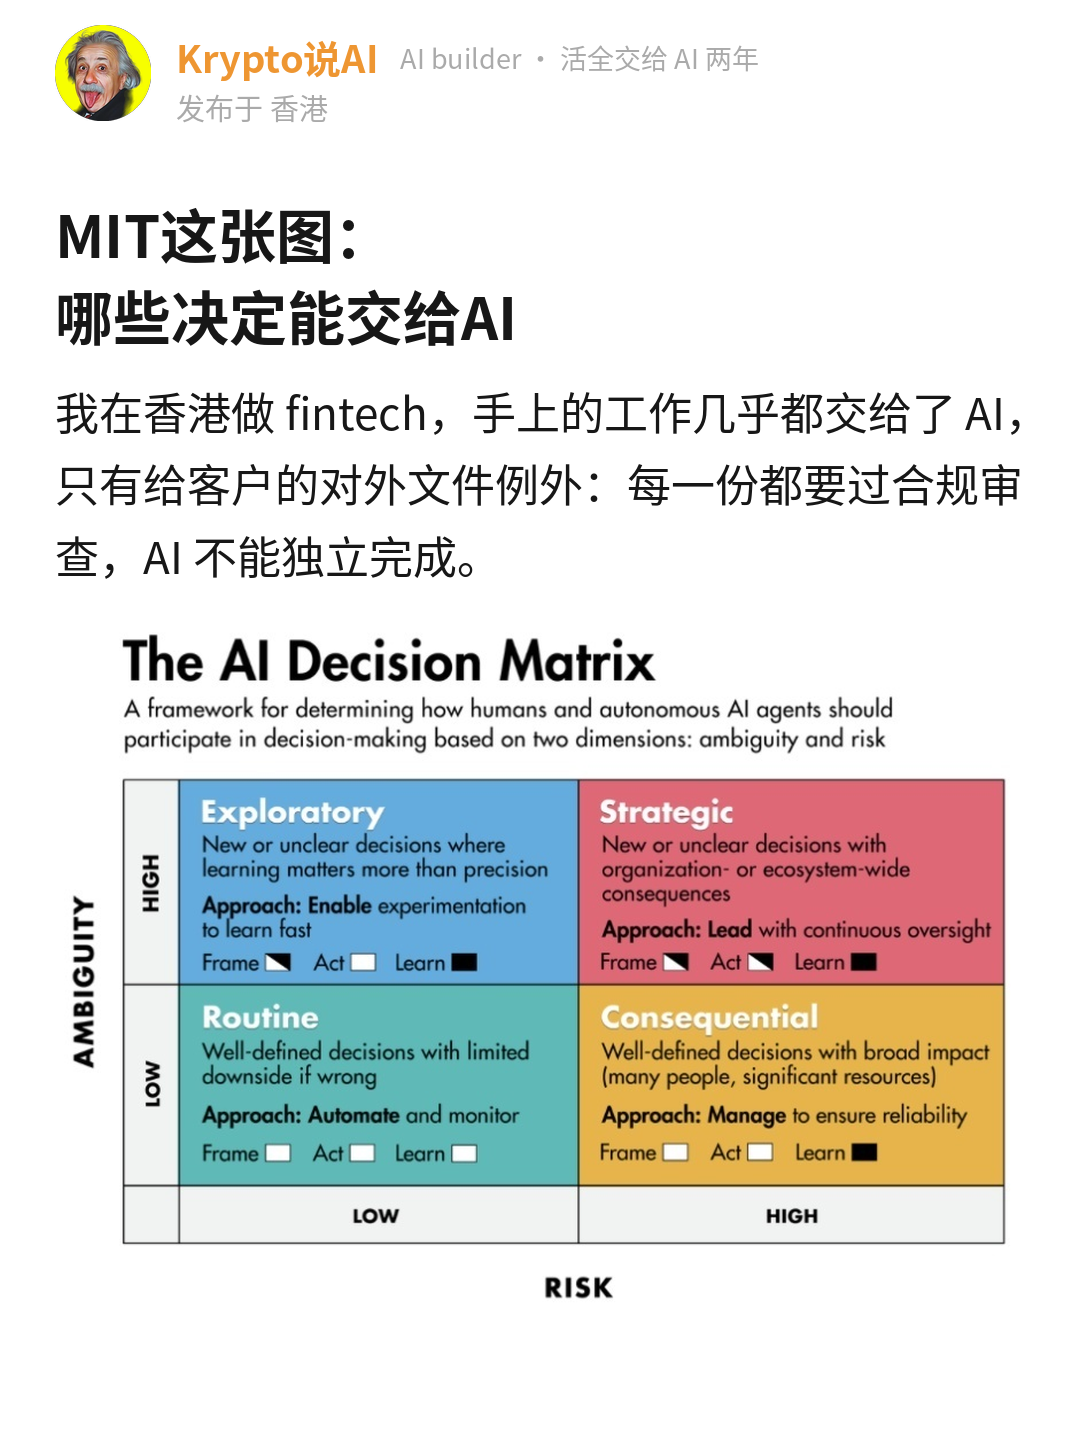
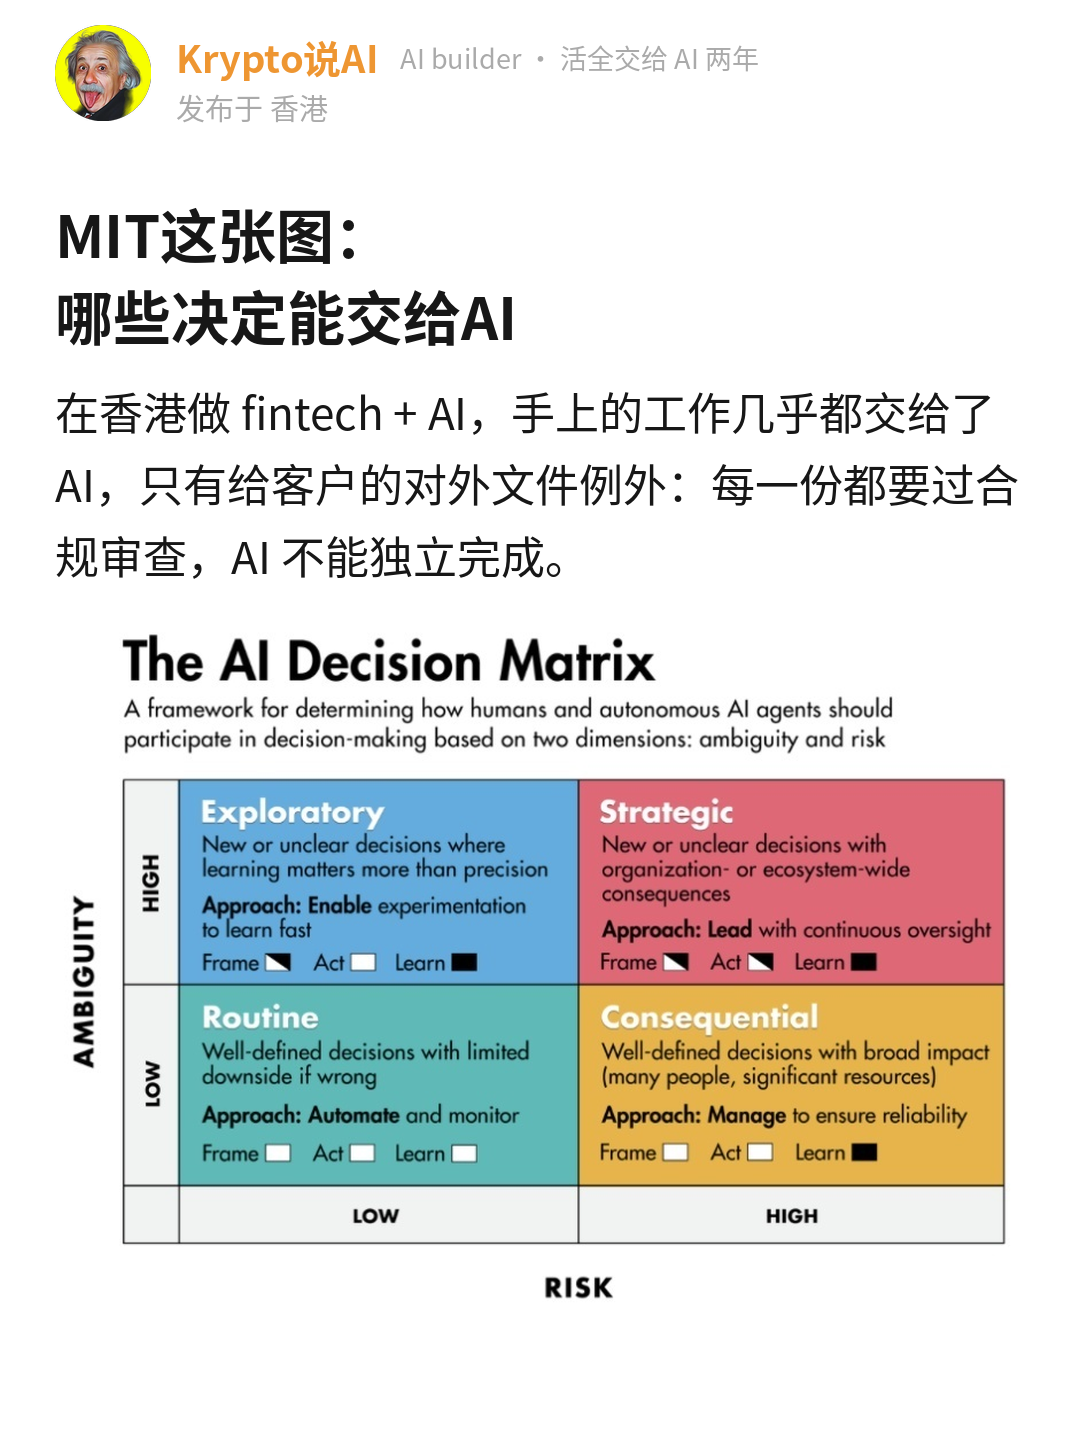
MIT 决策矩阵稿：首句去掉「我」，改成在香港做 fintech + AI
Claude-Session: https://claude.ai/code/session_01NaeRTaA3vEPhs6AxEyBLA2

Changed region(s): [[0.0306, 0.25, 0.9472, 0.4062]]

diff --git a/发布/2026-11-05_mit-ai-decision-matrix/meme-v2版/编辑用/draft.md b/发布/2026-11-05_mit-ai-decision-matrix/meme-v2版/编辑用/draft.md
@@ -15,7 +15,7 @@ location: 香港
 account: Krypto说AI
 ---
 
-我在香港做 fintech，手上的工作几乎都交给了 AI，只有给客户的对外文件例外：每一份都要过合规审查，AI 不能独立完成。
+在香港做 fintech + AI，手上的工作几乎都交给了 AI，只有给客户的对外文件例外：每一份都要过合规审查，AI 不能独立完成。
 
 新西兰电信 One NZ 也有一条差不多的规矩。这家公司跑着 50 多个 AI agent，唯独报价这件事，不许任何一个单独做主。它是 MIT 斯隆管理学院 9 月一篇文章里的案例：MIT 信息系统研究中心的四位研究者访谈了 30 位高管，画出上面这张「AI 决策矩阵」，用来判断一个决定该由人做、由 AI 做，还是两者一起做。
 
